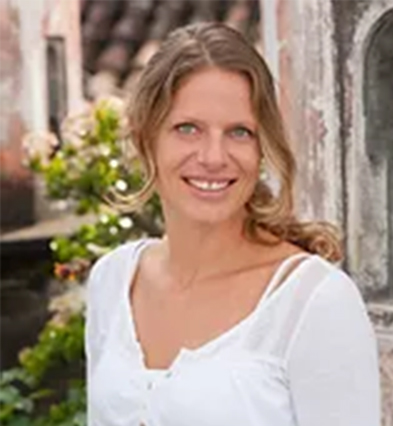
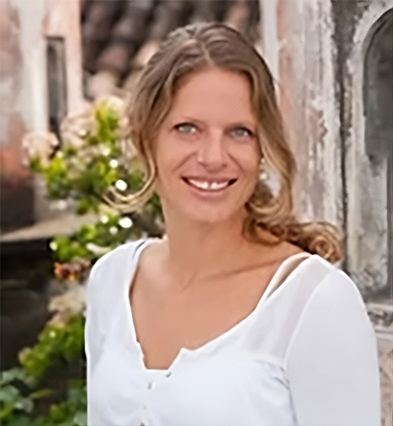
fotos en team

diff --git a/index.html b/index.html
@@ -725,7 +725,7 @@
                <!-- Ximena Rivera -->
                <div class="col-lg-3 col-md-6 col-12">
                   <figure class="mb-4 zoom-img">
-                     <img src="assets/images/team/xime.webp" alt="team" class="rounded-3 img-fluid" />
+                     <img src="assets/images/team/xime.jpg" alt="team" class="rounded-3 img-fluid" />
                   </figure>
                   <div class="mb-4">
                      <h4 class="mb-1"><a href="#!" class="text-reset">Ximena Rivera</a></h4>
